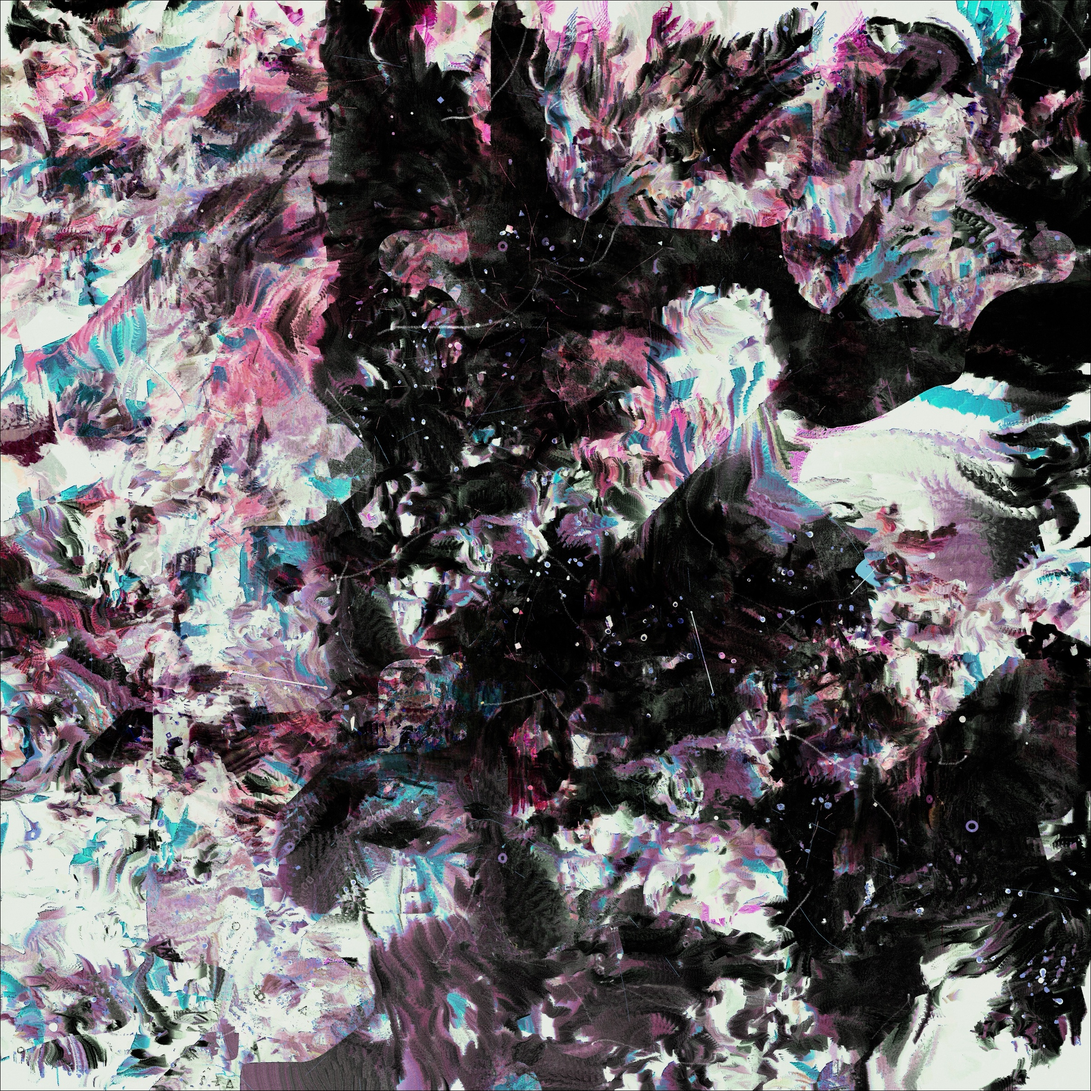
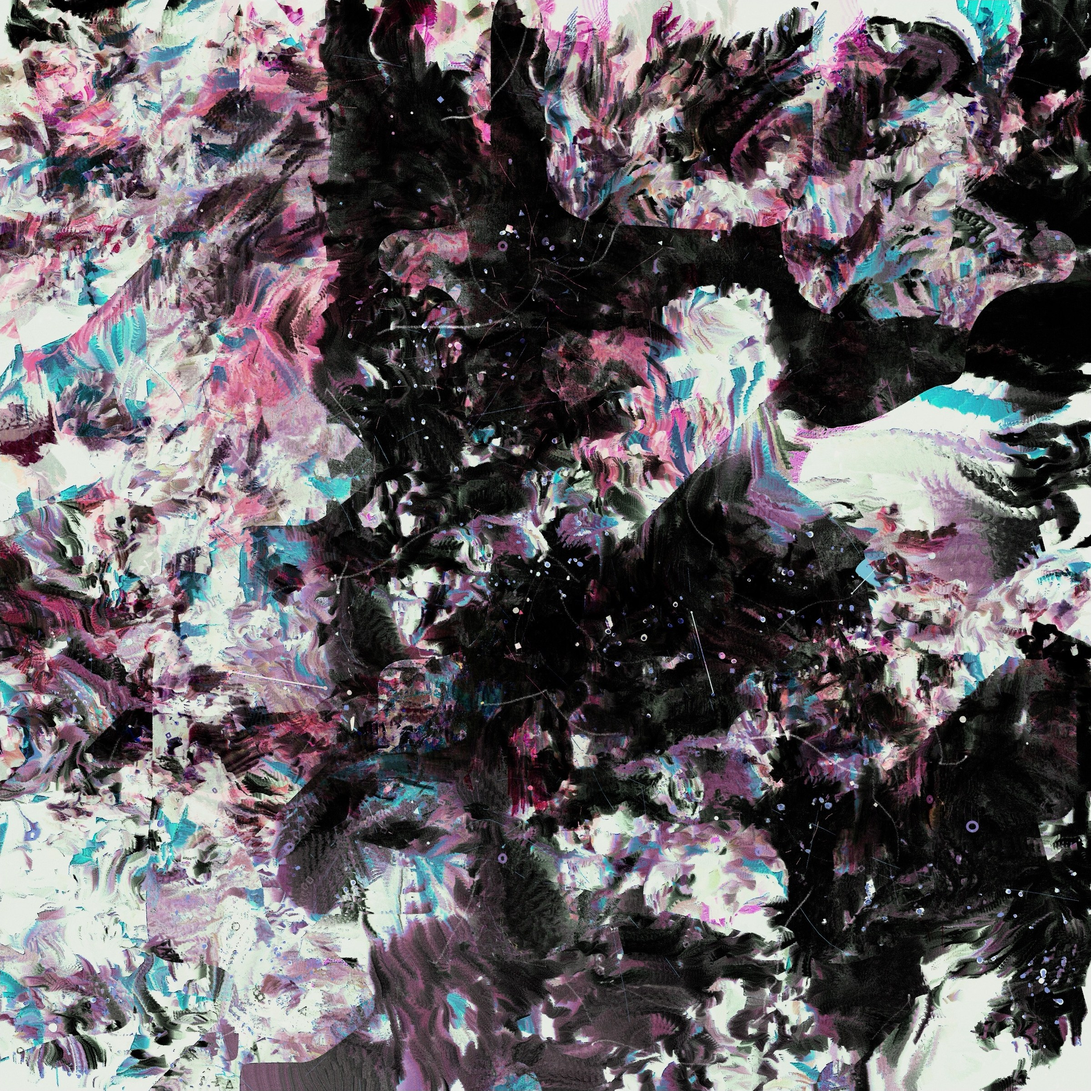
Equinox: crop baked-in edge, 15% smaller, no italic epigraph
- Source hero had a 1px near-black border baked into the JPG. Crop it
  off and re-save at quality 88. This was the "thin black line" edge.
- Cap the hero image at 85% of the frame on data-slug="equinox" so
  the artwork breathes instead of filling edge-to-edge.
- Drop the <em> wrapper on the opening "Mapping is not a mere
  simulation…" line per the artist's preference.

Also:
- Extend preserveHyphens to bind the space after a colon as U+00A0 so
  "X: Y" can't wrap with ":" stranded at end of line, and apply the
  function to the Colophon ColBlock bodies. Artist bios pulled from
  Verse no longer break across a hyphen like "deep-rooted".

diff --git a/app/exhibitions/[slug]/page.tsx b/app/exhibitions/[slug]/page.tsx
@@ -13,15 +13,19 @@ import { ExhibitionDetails } from "@/components/ExhibitionDetails";
  * Light typographic cleanup on exhibition prose:
  *   - Hyphens between letters/digits become U+2011 (non-breaking hyphen) so
  *     compound words like "dot-matrix" don't break across lines.
+ *   - The space after a colon becomes U+00A0 so "Section: value" can't wrap
+ *     with the colon stranded at end of line.
  *   - Spaces inside <em>…</em> titles become U+00A0 (non-breaking space) so
- *     an italic title like "The Flood: Orchestrated" never breaks — and in
- *     particular, the colon can't strand at the end of a line.
+ *     an italic title like "The Flood: Orchestrated" never breaks.
  * Skips HTML tags so attribute values are unaffected.
  */
 function preserveHyphens(html: string): string {
   const hyphenated = html.replace(/(<[^>]*>)|([^<]+)/g, (_m, tag, text) => {
     if (tag) return tag;
-    return (text as string).replace(/(\p{L}|\d)-(\p{L}|\d)/gu, "$1\u2011$2");
+    let t = text as string;
+    t = t.replace(/(\p{L}|\d)-(\p{L}|\d)/gu, "$1\u2011$2");
+    t = t.replace(/(\p{L}|\d): (?=\p{L}|\d)/gu, "$1:\u00A0");
+    return t;
   });
   return hyphenated.replace(/<em>([^<]*)<\/em>/g, (_m, content) =>
     `<em>${(content as string).replace(/ /g, "\u00A0")}</em>`
@@ -396,7 +400,10 @@ function ColBlock({
     <div className="col-block">
       <span className="col-label">{label}</span>
       <h3 className="col-title">{title}</h3>
-      <p className="col-body">{body}</p>
+      <p
+        className="col-body"
+        dangerouslySetInnerHTML={{ __html: preserveHyphens(body) }}
+      />
       <div className="col-links">
         {links.map((link) => (
           <Link

diff --git a/lib/data/exhibitions.ts b/lib/data/exhibitions.ts
@@ -195,7 +195,7 @@ export const exhibitions: Exhibition[] = [
     verseSeriesUrl: "https://verse.works/series/equinox-by-aluan-wang",
     workCount: 64,
     description: [
-      `<em>Mapping is not a mere simulation; it is the transformation of reality.</em>`,
+      `Mapping is not a mere simulation; it is the transformation of reality.`,
       `In Asian culture, the equinox symbolizes rebirth and renewal, akin to the significance of Easter in the West. For me, this festival holds special meaning as it is an integral part of my rural upbringing and a vessel for my childhood memories and emotions.`,
       `Throughout my artistic journey, I have been exploring invisible pathways and overarching systems. From my audiovisual work <em>Dynamized Center</em> a decade ago to last year&rsquo;s <em>Automatic Messages</em>, each piece delves into the essence of generative systems. I firmly believe that the heart of generative art lies not only in the visual output but also in the comprehensive systems driving these outputs.`,
       `In <em>Equinox</em>, I designed several interacting systems whose interplay results in unpredictable outcomes, embodying seasonal transitions and natural cycles whilst aiming to capture subtle emotions that are easily overlooked in our fast-paced world. Rather than serving as an imitation of reality, <em>Equinox</em> is a reinterpretation and creation of it.`,

diff --git a/app/globals.css b/app/globals.css
@@ -1271,9 +1271,14 @@ footer{background:var(--on-dark-bg);color:var(--on-dark-fg);padding:72px var(--g
 .ex-hero[data-slug="iso-iec-10646"] .ex-title-bar{bottom:64px;}
 /* Aluan Wang / Equinox: same hero framing as Paul's — tighter bottom
    padding so the artwork reaches near the title-bar, title pinned to
-   64px from the viewport bottom. */
+   64px from the viewport bottom. Cap the artwork at 85% of the frame
+   so it sits comfortably rather than filling edge-to-edge. */
 .ex-hero[data-slug="equinox"] .ex-hero-frame{padding:64px 56px;}
 .ex-hero[data-slug="equinox"] .ex-title-bar{bottom:64px;}
+.ex-hero[data-slug="equinox"] .ex-hero-plate img{
+  max-width:85%;
+  max-height:85%;
+}
 
 /* Yoshi Sodeoka / The Flood: mirror Paul's hero structurally.
    Video keeps its true intrinsic aspect (no cropping, no forced 4:5),
